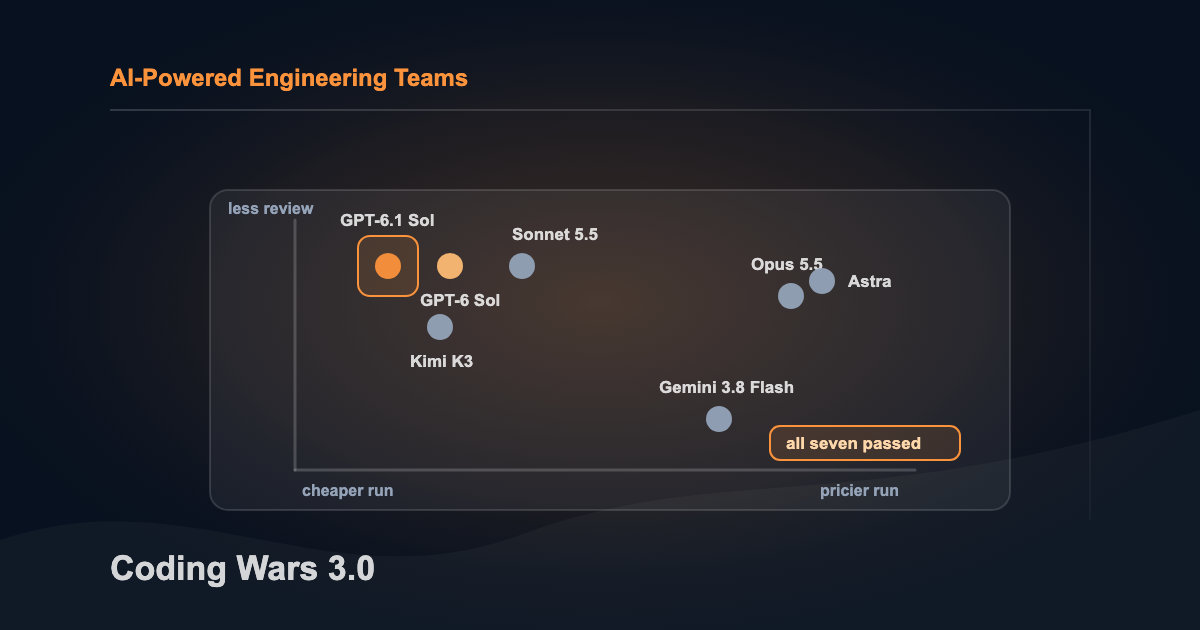
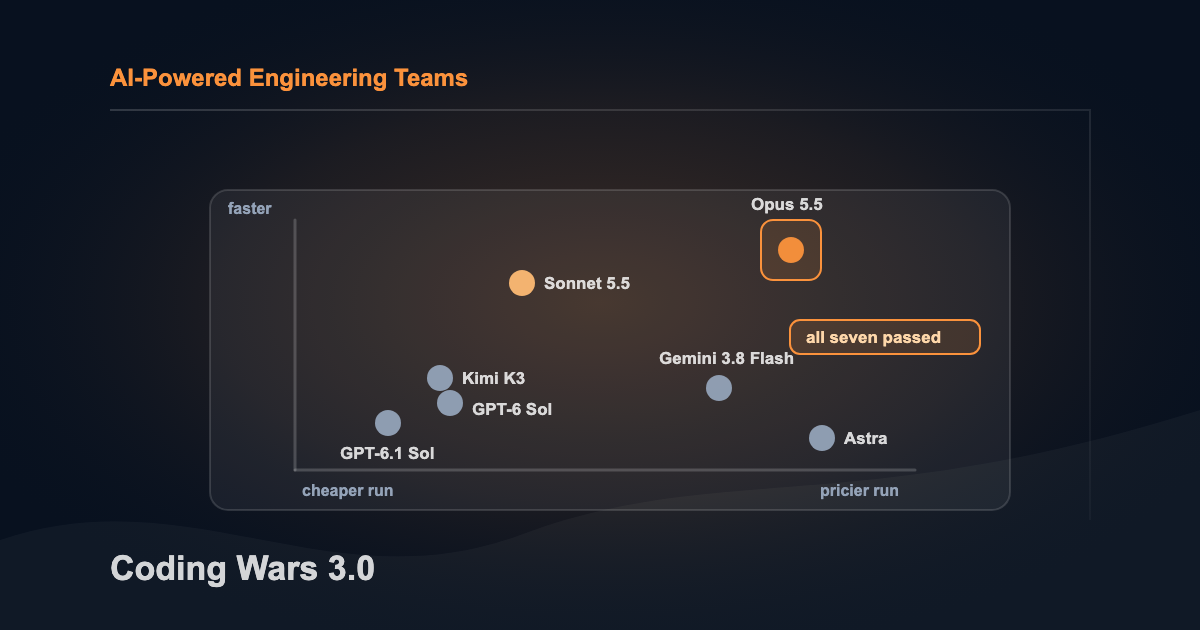
Coding Wars 3.0: add tok/s, move default to Opus 5.5, speed-vs-cost cover

Changed region(s): [[0.555, 0.3016, 0.8325, 0.754], [0.2775, 0.3317, 0.5242, 0.7238], [0.185, 0.3016, 0.2467, 0.3619]]

diff --git a/scripts/generate-article-covers.js b/scripts/generate-article-covers.js
@@ -57,7 +57,7 @@ const covers = [
     slug: 'coding-wars-3-opus-5-5-vs-gpt-6-1-sol',
     pillar: 'AI-Powered Engineering Teams',
     title: 'Coding Wars 3.0',
-    alt: 'Seven coding models plotted by estimated run cost and review time, with GPT-6.1 Sol marked as the default.',
+    alt: 'Seven coding models plotted by run speed and estimated cost, with Opus 5.5 marked as the default.',
     accent: '#fb923c',
     motif: 'matrix',
   },
@@ -736,29 +736,29 @@ function concept(cover) {
         ${conceptArrow(670, 168, 745, 168, '#fbbf24', 4)}
       </g>`;
     case 'coding-wars-3-opus-5-5-vs-gpt-6-1-sol': {
-      // Real values from the article: est. run cost ($) and judge's est. review minutes.
+      // Real values from the article: est. run cost ($) and end-to-end output tokens per second.
       const x = (cost) => Math.round(85 + (cost / 0.6) * 620);
-      const y = (review) => Math.round(45 + ((review - 6) / 14) * 215);
+      const y = (speed) => Math.round(280 - speed * 2.5);
       const models = [
-        ['GPT-6.1 Sol', 0.09, 8, '#fb923c', -48, -40],
-        ['GPT-6 Sol', 0.15, 8, '#fdba74', -30, 40],
-        ['Sonnet 5.5', 0.22, 8, '#94a3b8', -10, -26],
-        ['Kimi K3', 0.14, 12, '#94a3b8', -30, 40],
-        ['Opus 5.5', 0.48, 10, '#94a3b8', -40, -26],
-        ['Astra', 0.51, 9, '#94a3b8', 26, 6],
-        ['Gemini 3.8 Flash', 0.41, 18, '#94a3b8', -60, -26],
+        ['Opus 5.5', 0.48, 88, '#fb923c', -40, -40],
+        ['Sonnet 5.5', 0.22, 75, '#fdba74', 22, 6],
+        ['Kimi K3', 0.14, 37, '#94a3b8', 22, 6],
+        ['GPT-6 Sol', 0.15, 27, '#94a3b8', 22, 12],
+        ['GPT-6.1 Sol', 0.09, 19, '#94a3b8', -48, 36],
+        ['Gemini 3.8 Flash', 0.41, 33, '#94a3b8', -60, -24],
+        ['Astra', 0.51, 13, '#94a3b8', 22, 6],
       ];
       return `<g transform="translate(210 190)">
         <rect x="0" y="0" width="800" height="320" rx="18" fill="rgba(255,255,255,0.055)" stroke="rgba(255,255,255,0.14)" stroke-width="2"/>
         ${conceptLine(85, 280, 705, 280, 'rgba(255,255,255,0.24)', 3)}
         ${conceptLine(85, 280, 85, 30, 'rgba(255,255,255,0.24)', 3)}
-        <rect x="${x(0.09) - 30}" y="${y(8) - 30}" width="60" height="60" rx="12" fill="rgba(251,146,60,0.12)" stroke="#fb923c" stroke-width="2"/>
-        ${models.map(([name, cost, review, color, dx, dy]) => `<circle cx="${x(cost)}" cy="${y(review)}" r="13" fill="${color}" opacity="0.95"/><text x="${x(cost) + dx}" y="${y(review) + dy}" fill="rgba(255,255,255,0.82)" font-size="17" font-weight="700">${name}</text>`).join('')}
-        <rect x="560" y="236" width="190" height="34" rx="10" fill="rgba(251,146,60,0.12)" stroke="#fb923c" stroke-width="2"/>
-        ${label(576, 259, 'all seven passed', 17, '#fed7aa')}
+        <rect x="${x(0.48) - 30}" y="${y(88) - 30}" width="60" height="60" rx="12" fill="rgba(251,146,60,0.12)" stroke="#fb923c" stroke-width="2"/>
+        ${models.map(([name, cost, speed, color, dx, dy]) => `<circle cx="${x(cost)}" cy="${y(speed)}" r="13" fill="${color}" opacity="0.95"/><text x="${x(cost) + dx}" y="${y(speed) + dy}" fill="rgba(255,255,255,0.82)" font-size="17" font-weight="700">${name}</text>`).join('')}
+        <rect x="580" y="130" width="190" height="34" rx="10" fill="rgba(251,146,60,0.12)" stroke="#fb923c" stroke-width="2"/>
+        ${label(596, 153, 'all seven passed', 17, '#fed7aa')}
         ${smallLabel(92, 306, 'cheaper run', '#94a3b8')}
         ${smallLabel(610, 306, 'pricier run', '#94a3b8')}
-        ${smallLabel(18, 24, 'less review', '#94a3b8')}
+        ${smallLabel(18, 24, 'faster', '#94a3b8')}
       </g>`;
     }
     case 'kimi-k2-6-vs-glm-5-1-vs-claude-opus-4-7':

diff --git a/src/articles/coding-wars-3-opus-5-5-vs-gpt-6-1-sol.md b/src/articles/coding-wars-3-opus-5-5-vs-gpt-6-1-sol.md
@@ -5,7 +5,7 @@ slug: "coding-wars-3-opus-5-5-vs-gpt-6-1-sol"
 tags: ["AI", "Software Engineering", "AI Coding Models", "Developer Tools", "Claude Code", "Codex"]
 excerpt: "Seven new models, one real bug from my repo. They all fixed it. The differences were in price, review burden, and one leak only Gemini caught."
 image: "/images/articles/coding-wars-3-opus-5-5-vs-gpt-6-1-sol.png"
-image_alt: "Seven coding models plotted by estimated run cost and review time, with GPT-6.1 Sol marked as the default."
+image_alt: "Seven coding models plotted by run speed and estimated cost, with Opus 5.5 marked as the default."
 seo_title: "Best AI Coding Model 2026: Opus 5.5 vs GPT-6.1 Sol vs Sonnet 5.5 vs Astra"
 meta_description: "Opus 5.5, Sonnet 5.5, GPT-6.1 Sol, GPT-6 Astra, Kimi K3, and Gemini 3.8 Flash on one real repository bug: correctness, cost, and the review bill."
 target_keywords: "best ai coding model 2026, opus 5.5 vs gpt-6.1 sol, sonnet 5.5 coding, gpt-6 astra vs opus 5.5, gemini 4 argon coding, kimi k3 coding, gemini 3.8 flash coding"
@@ -89,17 +89,17 @@ Redacting `applicant.json` breaks three unrelated tests at the starting commit. 
 
 All seven models passed the hidden regression and left the suite's existing failures unchanged. The diffs exposed differences the grader didn't catch.
 
-| Model (route) | Hidden test | Suite | Files | Lines +/− | Wall clock | Est. cost |
-|---|---|---|---|---|---|---|
-| Claude Opus 5.5 (Anthropic) | Pass | 117 / 3 known | 2 | +47 / −10 | 46s | $0.48 |
-| Claude Sonnet 5.5 (Anthropic) | Pass | 117 / 3 known | 2 | +45 / −7 | 50s | $0.22 |
-| GPT-6 Sol (Codex) | Pass | 117 / 3 known | 2 | +49 / −7 | 99s | $0.15 |
-| GPT-6.1 Sol (Codex) | Pass | 117 / 3 known | 2 | +47 / −7 | 97s | $0.09 |
-| GPT-6 Astra (Codex) | Pass | 117 / 3 known | 3 | +47 / −7 | 155s | $0.51 |
-| Kimi K3 (Copilot) | Pass | 117 / 3 known | 2 | +44 / −5 | 113s | $0.14 |
-| Gemini 3.8 Flash (Copilot) | Pass | 117 / 3 known | 2 | +81 / −13 | 144s | $0.41 |
+| Model (route) | Hidden test | Suite | Files | Lines +/− | Wall clock | Output tok/s | Est. cost |
+|---|---|---|---|---|---|---|---|
+| Claude Opus 5.5 (Anthropic) | Pass | 117 / 3 known | 2 | +47 / −10 | 46s | 88 | $0.48 |
+| Claude Sonnet 5.5 (Anthropic) | Pass | 117 / 3 known | 2 | +45 / −7 | 50s | 75 | $0.22 |
+| GPT-6 Sol (Codex) | Pass | 117 / 3 known | 2 | +49 / −7 | 99s | 27 | $0.15 |
+| GPT-6.1 Sol (Codex) | Pass | 117 / 3 known | 2 | +47 / −7 | 97s | 19 | $0.09 |
+| GPT-6 Astra (Codex) | Pass | 117 / 3 known | 3 | +47 / −7 | 155s | 13 | $0.51 |
+| Kimi K3 (Copilot) | Pass | 117 / 3 known | 2 | +44 / −5 | 113s | 37 | $0.14 |
+| Gemini 3.8 Flash (Copilot) | Pass | 117 / 3 known | 2 | +81 / −13 | 144s | 33 | $0.41 |
 
-Cost is omp's estimate at each model's list API price. I ran on subscriptions, so these are estimated API costs. GPT-6.1 Sol ran later the same day after an omp update added it to the Codex route, with the same starting repo, prompt, and grader.
+Cost is omp's estimate at each model's list API price. I ran on subscriptions, so these are estimated API costs. Output tok/s is output tokens divided by wall clock, so it includes tool calls and test runs; read it as end-to-end speed on this task, not raw generation speed. GPT-6.1 Sol ran later the same day after an omp update added it to the Codex route, with the same starting repo, prompt, and grader.
 
 ### A second reviewer: GPT-6.1 Sol as judge
 
@@ -125,7 +125,7 @@ Sonnet took 50 seconds for about $0.22. Both Sols took about 100 seconds; 6.1 co
 
 ### Opus 5.5: an extra cleanup
 
-Opus produced the same fix, then extracted error construction into a helper shared with an existing telemetry path. Reasonable cleanup, but outside the task; the judge docked it one point for edit discipline. It was the fastest run at 46 seconds.
+Opus produced the same fix, then extracted error construction into a helper shared with an existing telemetry path. Reasonable cleanup, but outside the task; the judge docked it one point for edit discipline. It was the fastest run at 46 seconds, about 88 output tokens per second end to end, more than four times GPT-6.1 Sol's rate.
 
 Anthropic's cost pitch also showed up in early usage reports:
 
@@ -161,24 +161,25 @@ Google's table puts Argon ahead of Opus 5.5 on DeepSWE (77.9% vs 74.2%), but beh
 
 The judge estimated 8 minutes of review for Sonnet and both Sols, versus 18 minutes for Gemini. The page leak explains why review is still necessary after a passing test: a larger diff can contain a useful fix alongside changes I'd reject.
 
-At $2/$10 for both Sol and Sonnet, list token prices don't separate them. The run cost, speed, and review burden do. For the organizational cost of generation outrunning review, see [The Claude Code Productivity Paradox](/articles/claude-code-productivity-paradox).
+At $2/$10 for both Sol and Sonnet, list token prices don't separate them. The run cost, speed, and review burden do. When the review bill is a near-tie, speed is what I feel all day. For the organizational cost of generation outrunning review, see [The Claude Code Productivity Paradox](/articles/claude-code-productivity-paradox).
 
 ## My routing rule after the test
 
 | Work type | Default | Escalate when | Why |
 |---|---|---|---|
-| Routine reversible edit | GPT-6.1 Sol | Verification fails twice | Matched my shipped fix, ranked 2nd by the blind judge, cheapest run in the test (~$0.09) |
+| Routine reversible edit | Opus 5.5 | Verification fails twice | Fastest run (46s, ~88 tok/s), same core fix as the top-ranked diffs; Opus 5.5's price cut makes it affordable as a default |
+| Cost-sensitive or batch work | GPT-6.1 Sol | Speed matters more than spend | Matched my shipped fix, ranked 2nd by the blind judge, cheapest run in the test (~$0.09) |
 | Final review on a risky diff | GPT-6.1 Sol as a blind reviewer | Always paired with a human owner | Found the page leak and flagged Kimi's partial fix |
 | Open-weight / private deployment | Kimi K3, with review | Serving cost beats managed price | Cheap and fast, but its fix didn't fully meet the ticket |
-| Didn't earn a lane on this test | GPT-6 Astra | Hard science or big data migrations, per OpenAI | Same answer as 6.1 Sol at about 5x the cost |
+| Didn't earn a lane on this test | GPT-6 Astra | Hard science or big data migrations, per OpenAI | Same answer as 6.1 Sol at about 5x the cost, and the slowest run |
 
-This task was too small to establish an Opus advantage on difficult cross-file implementation. It doesn't support a routing recommendation there.
+This task was too small to establish an Opus advantage on difficult cross-file implementation. The case for Opus here is speed at equal correctness, not depth.
 
-Sonnet and the two Sols were equivalent on the core fix. Sonnet was twice as fast; GPT-6.1 Sol cost less than half as much. I already live in GPT, so Sonnet doesn't earn a second lane for me. Multi-model routing is infrastructure, and [you probably don't need a gateway yet](/articles/llm-gateway-architecture).
+Sonnet and the two Sols were equivalent on the core fix, and Opus matched them apart from its extra cleanup. Sonnet was nearly as fast as Opus at half the cost, so it's a reasonable pick if price matters more to you than it does to me. Multi-model routing is infrastructure, and [you probably don't need a gateway yet](/articles/llm-gateway-architecture).
 
 ## What I'd use tomorrow
 
-GPT-6 Sol ranked first, though the judge's top five were a near-tie. Opus was fastest at 46s, with Sonnet four seconds behind at half the cost. GPT-6.1 Sol gave me the lowest estimated cost and fits the workflow I already use. That's enough to keep it as my default for routine work.
+GPT-6 Sol ranked first, though the judge's top five were a near-tie. When the outputs are that close, I take the faster model. Opus finished in 46 seconds; the Sols took about 100. Across a day of small edits, that difference compounds, and waiting is what pulls me out of the work. GPT-6.1 Sol is still the cheapest run, and I'll keep it for batch and cost-sensitive jobs, but Opus 5.5 is my default for routine work. After four or five releases on GPT, the price cut is what brought me back to Claude.
 
 One thing this test made me think about: if a $2/$10 model writes the same fix as a $10/$50 one, the price is going to keep moving, and I don't think it settles anytime soon. That's why I still think local models are worth figuring out. The hardware isn't cheap. A 64GB M5 Max MacBook Pro runs about $5,400, and NVIDIA's DGX Spark went up to $4,699 this year. It's a bigger upfront bet, but a model you run yourself doesn't change its price, its safety rules, or its behavior on you after you've built around it. I'll dig into that in a separate piece.
 

diff --git a/CHANGELOG.md b/CHANGELOG.md
@@ -8,7 +8,8 @@ and this project adheres to [Semantic Versioning](https://semver.org/spec/v2.0.0
 ## [2026-10-04] - Coding Wars 3.0 cover
 
 ### Changed
-- Coding Wars 3.0 hero now uses a generated cover (`scripts/generate-article-covers.js`, accent `#fb923c`) plotting the seven models by estimated run cost and review time, replacing the Theo screenshot that also appeared inline. Sources heading renamed to "Sources Checked" to match Coding Wars 2.0.
+- Coding Wars 3.0 hero now uses a generated cover (`scripts/generate-article-covers.js`, accent `#fb923c`) plotting the seven models by end-to-end speed and estimated cost, replacing the Theo screenshot that also appeared inline. Sources heading renamed to "Sources Checked" to match Coding Wars 2.0.
+- Coding Wars 3.0 verdict: added an output tok/s column; routine-work default moved from GPT-6.1 Sol to Opus 5.5 (fastest at near-equal quality), with GPT-6.1 Sol kept for batch and cost-sensitive work.
 
 ## [2026-10-03] - Small styling refresh and looser newsletter cadence
 
